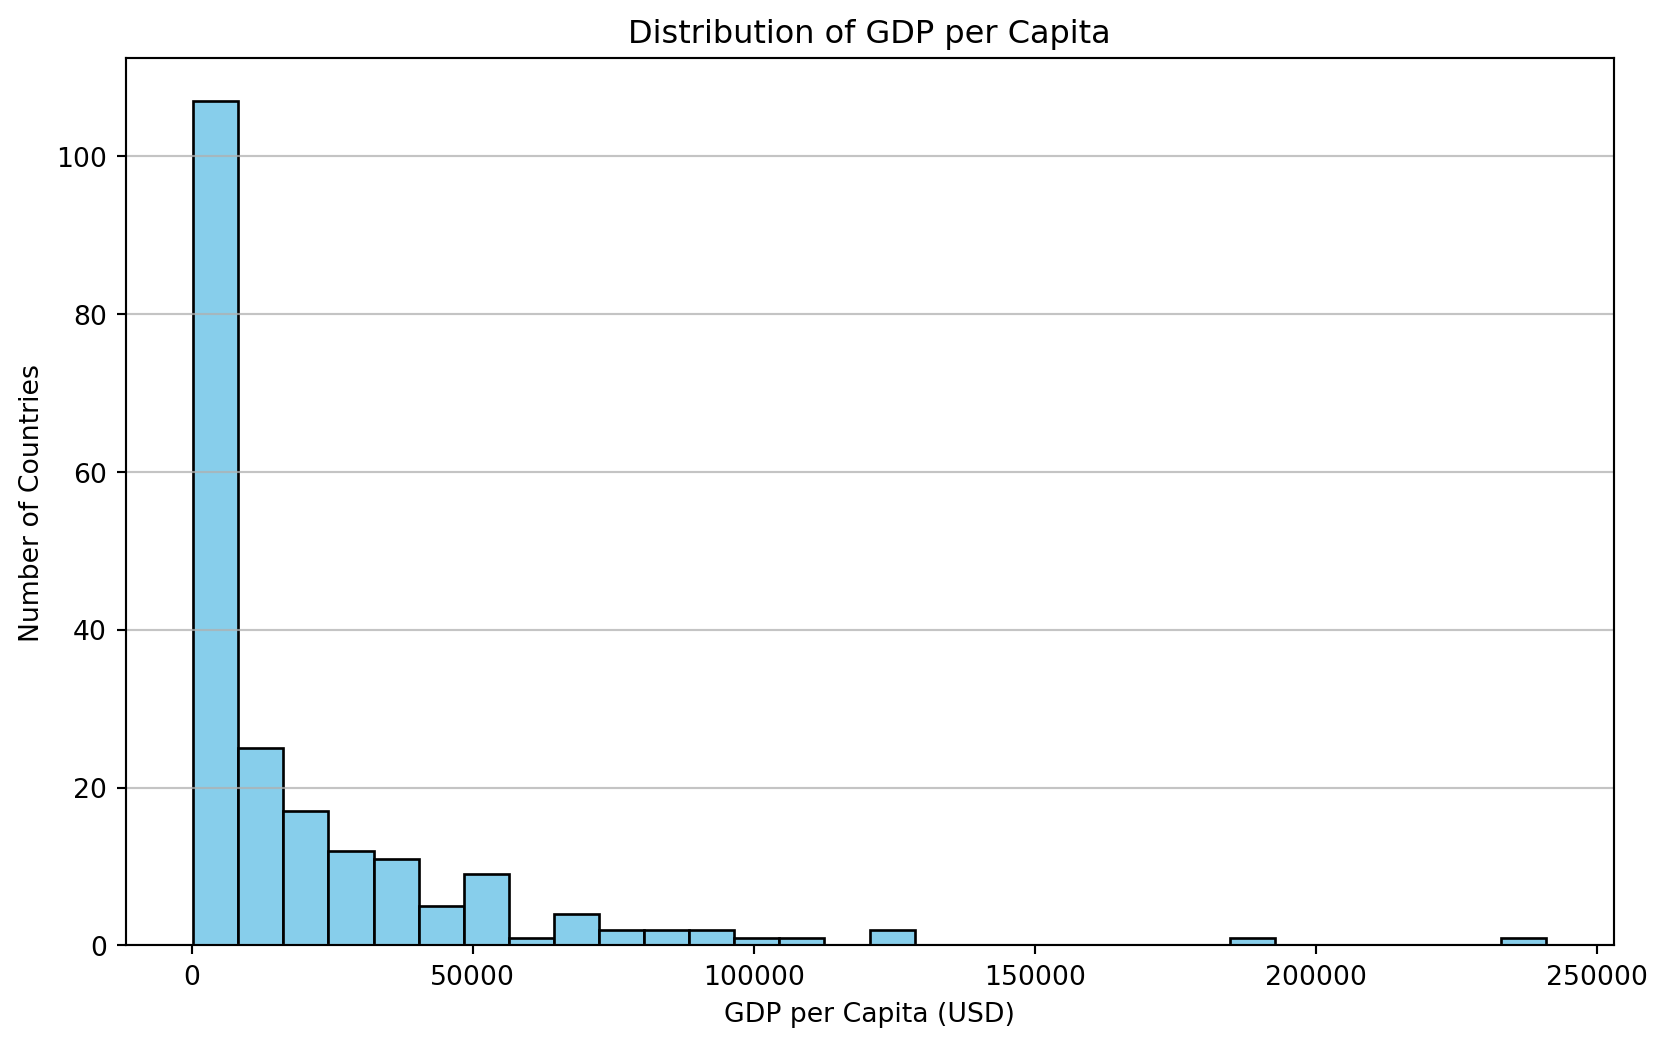
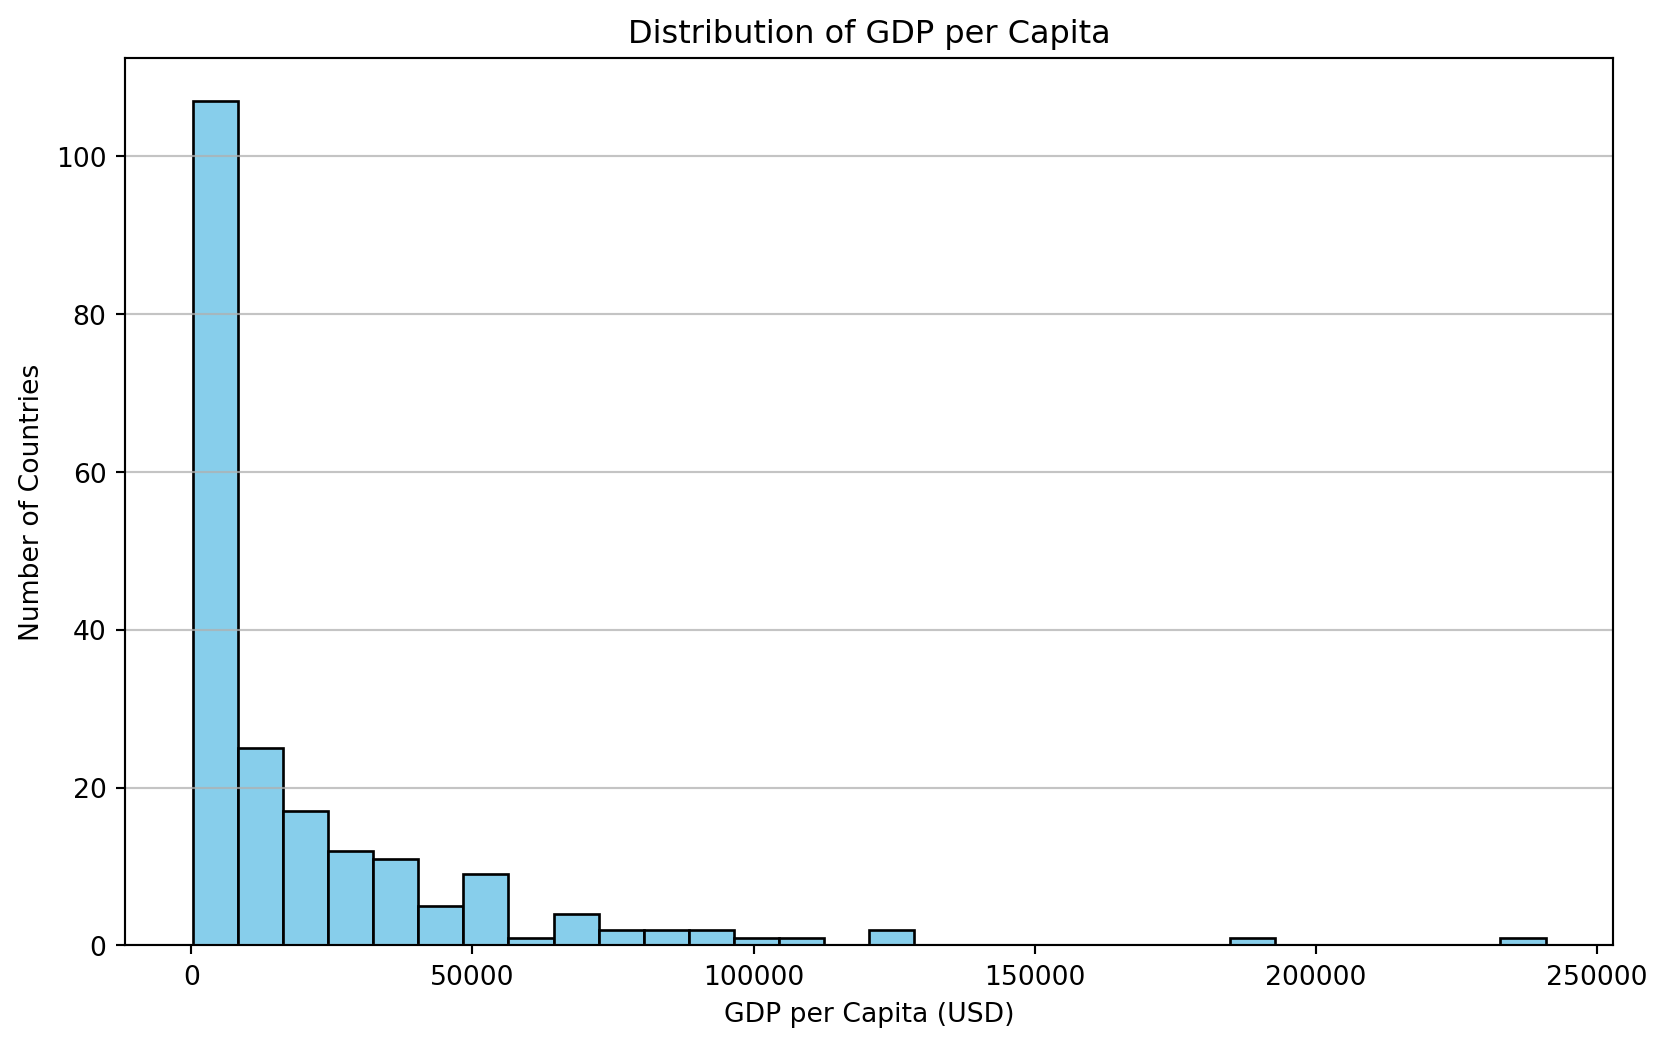
report html

diff --git a/report.html b/report.html
@@ -160,7 +160,7 @@ div.csl-indent {
 <div id="fig-gdp-histogram" class="quarto-float quarto-figure quarto-figure-center anchored">
 <figure class="quarto-float quarto-float-fig figure">
 <div aria-describedby="fig-gdp-histogram-caption-0ceaefa1-69ba-4598-a22c-09a6ac19f8ca">
-<img src="report_files/figure-html/fig-gdp-histogram-output-1.png" width="834" height="523" class="figure-img">
+<img src="report_files/figure-html/fig-gdp-histogram-output-1.png" width="833" height="523" class="figure-img">
 </div>
 <figcaption class="quarto-float-caption-bottom quarto-float-caption quarto-float-fig" id="fig-gdp-histogram-caption-0ceaefa1-69ba-4598-a22c-09a6ac19f8ca">
 Figure&nbsp;1: Figure 3: Distribution of GDP per Capita (2022). Source: World Development Indicators.
@@ -287,7 +287,7 @@ Figure&nbsp;4: Figure 5: Distribution of Education Expenditure (% of GDP) (2022)
 <div id="fig-education-expenditure" class="quarto-float quarto-figure quarto-figure-center anchored">
 <figure class="quarto-float quarto-float-fig figure">
 <div aria-describedby="fig-education-expenditure-caption-0ceaefa1-69ba-4598-a22c-09a6ac19f8ca">
-<img src="report_files/figure-html/fig-education-expenditure-output-1.png" width="898" height="523" class="figure-img">
+<img src="report_files/figure-html/fig-education-expenditure-output-1.png" width="897" height="523" class="figure-img">
 </div>
 <figcaption class="quarto-float-caption-bottom quarto-float-caption quarto-float-fig" id="fig-education-expenditure-caption-0ceaefa1-69ba-4598-a22c-09a6ac19f8ca">
 Figure&nbsp;5: Figure 2: Top 10 Countries by Education Expenditure (% of GDP) (2022). Source: World Development Indicators.
